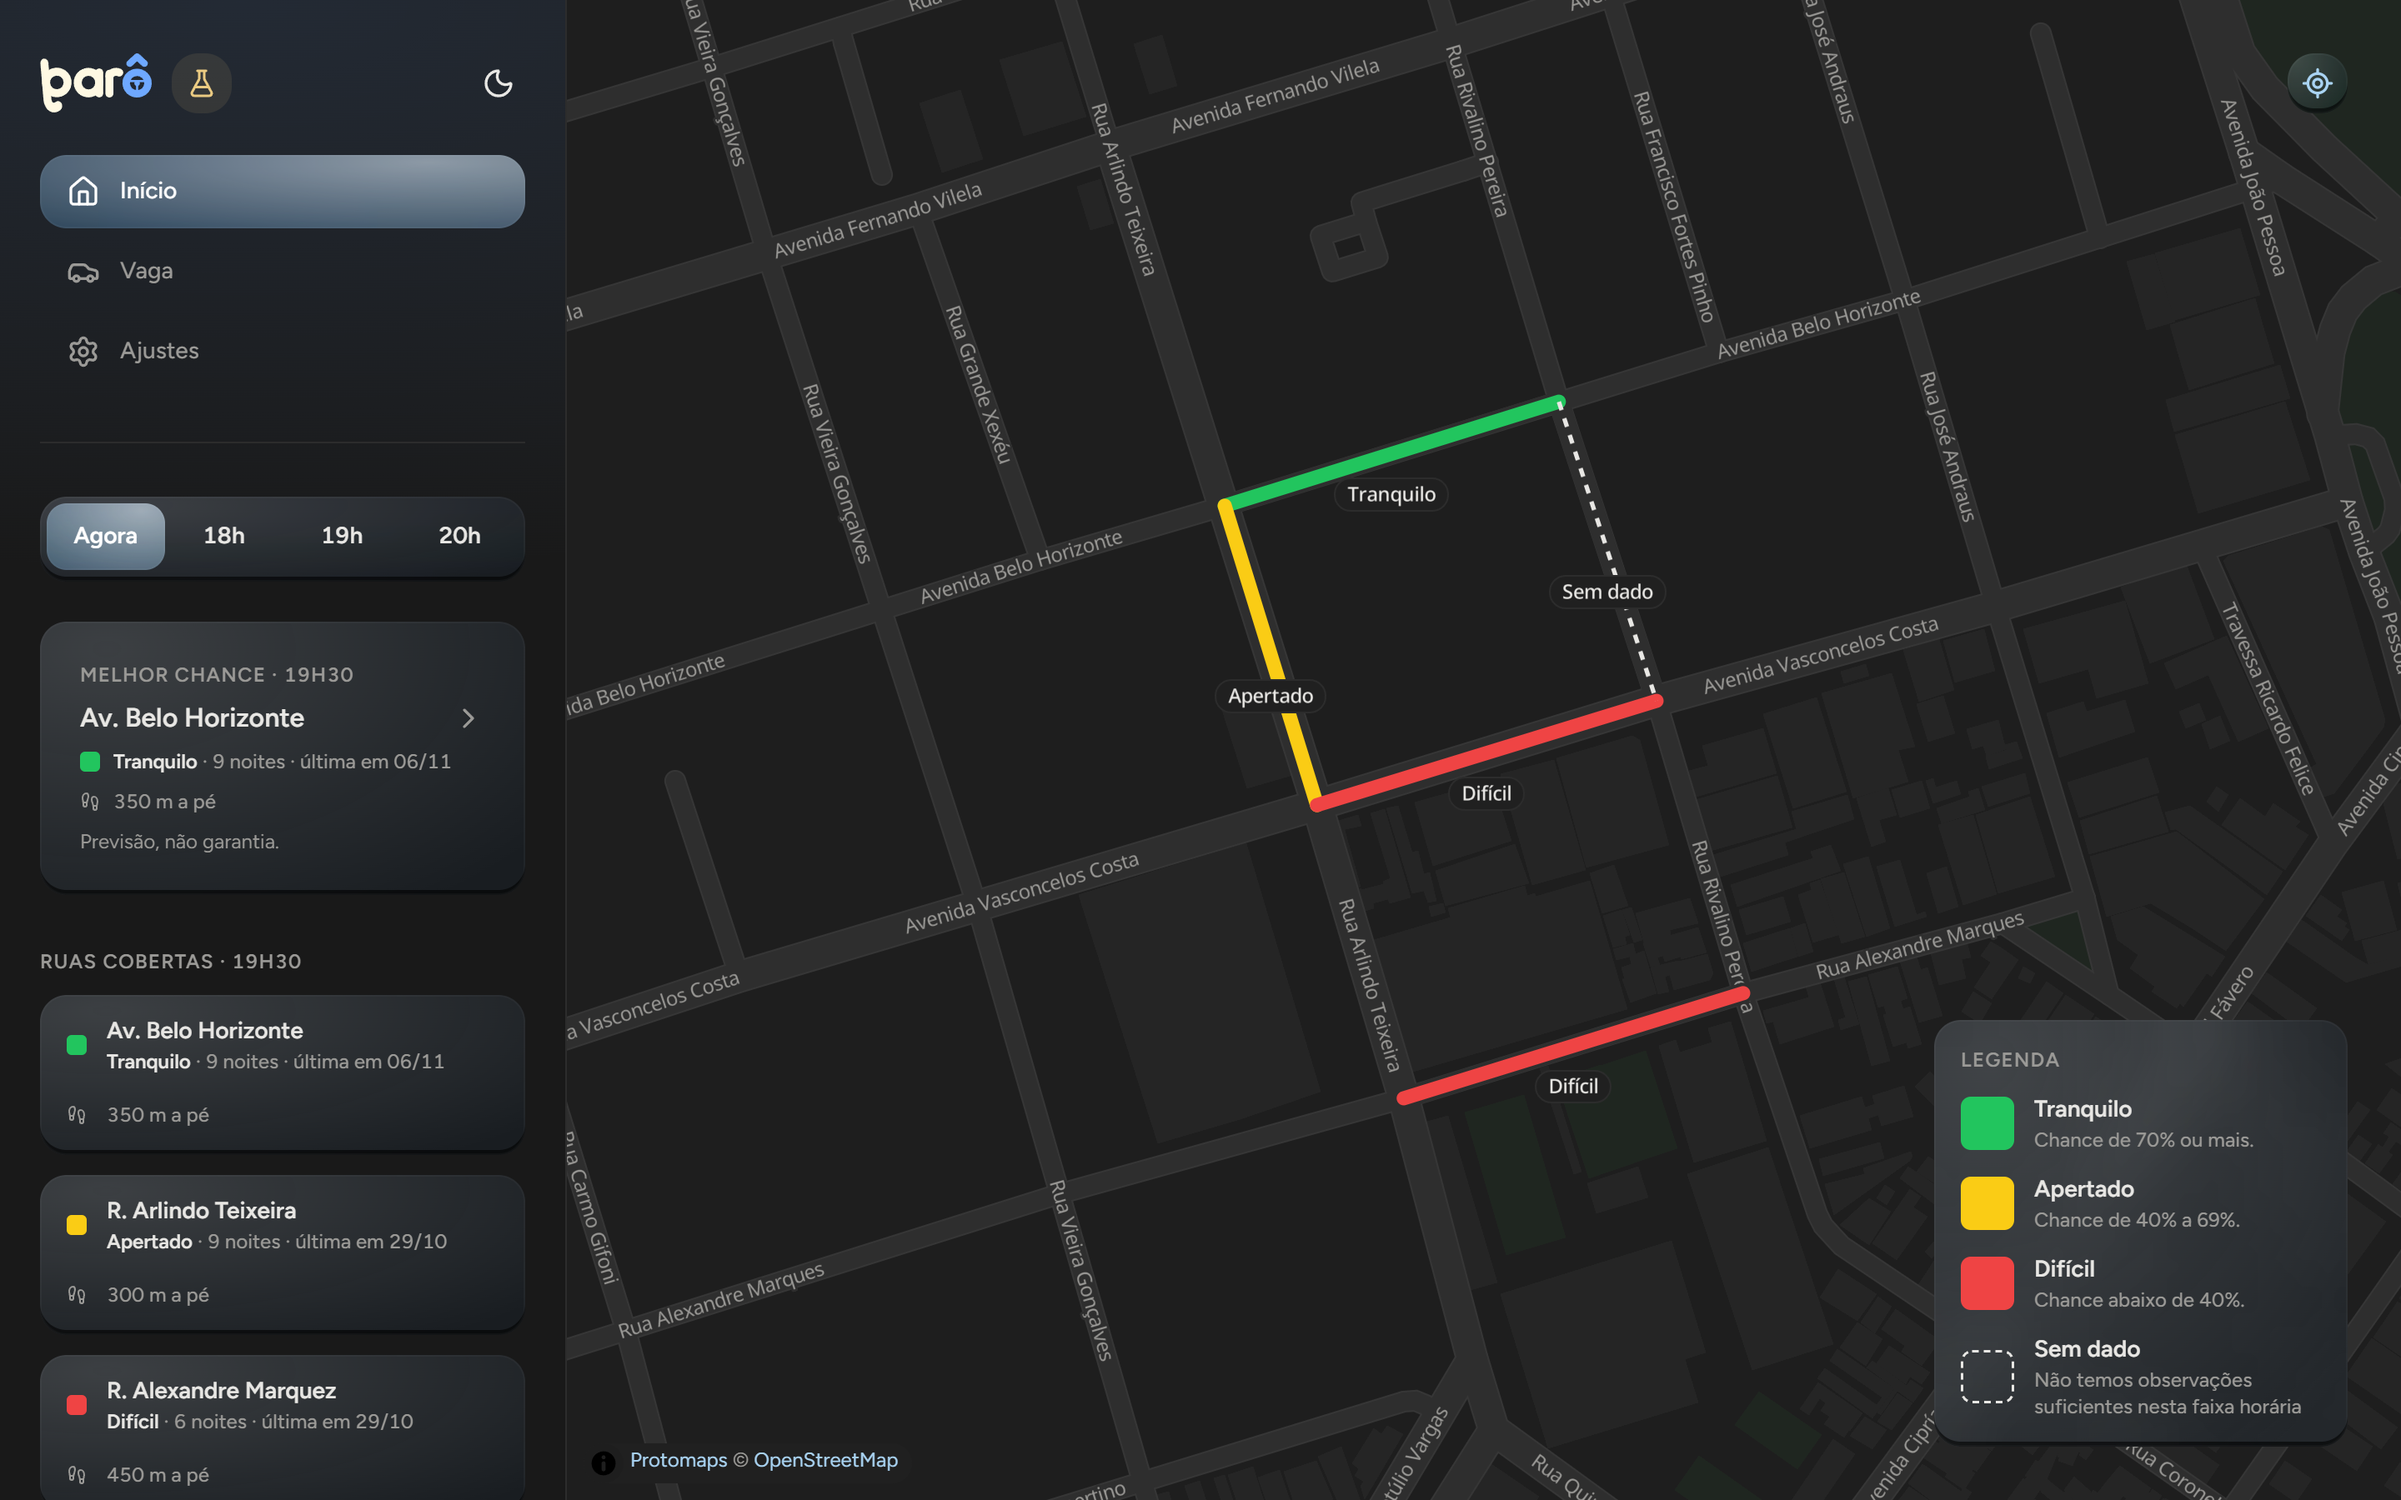
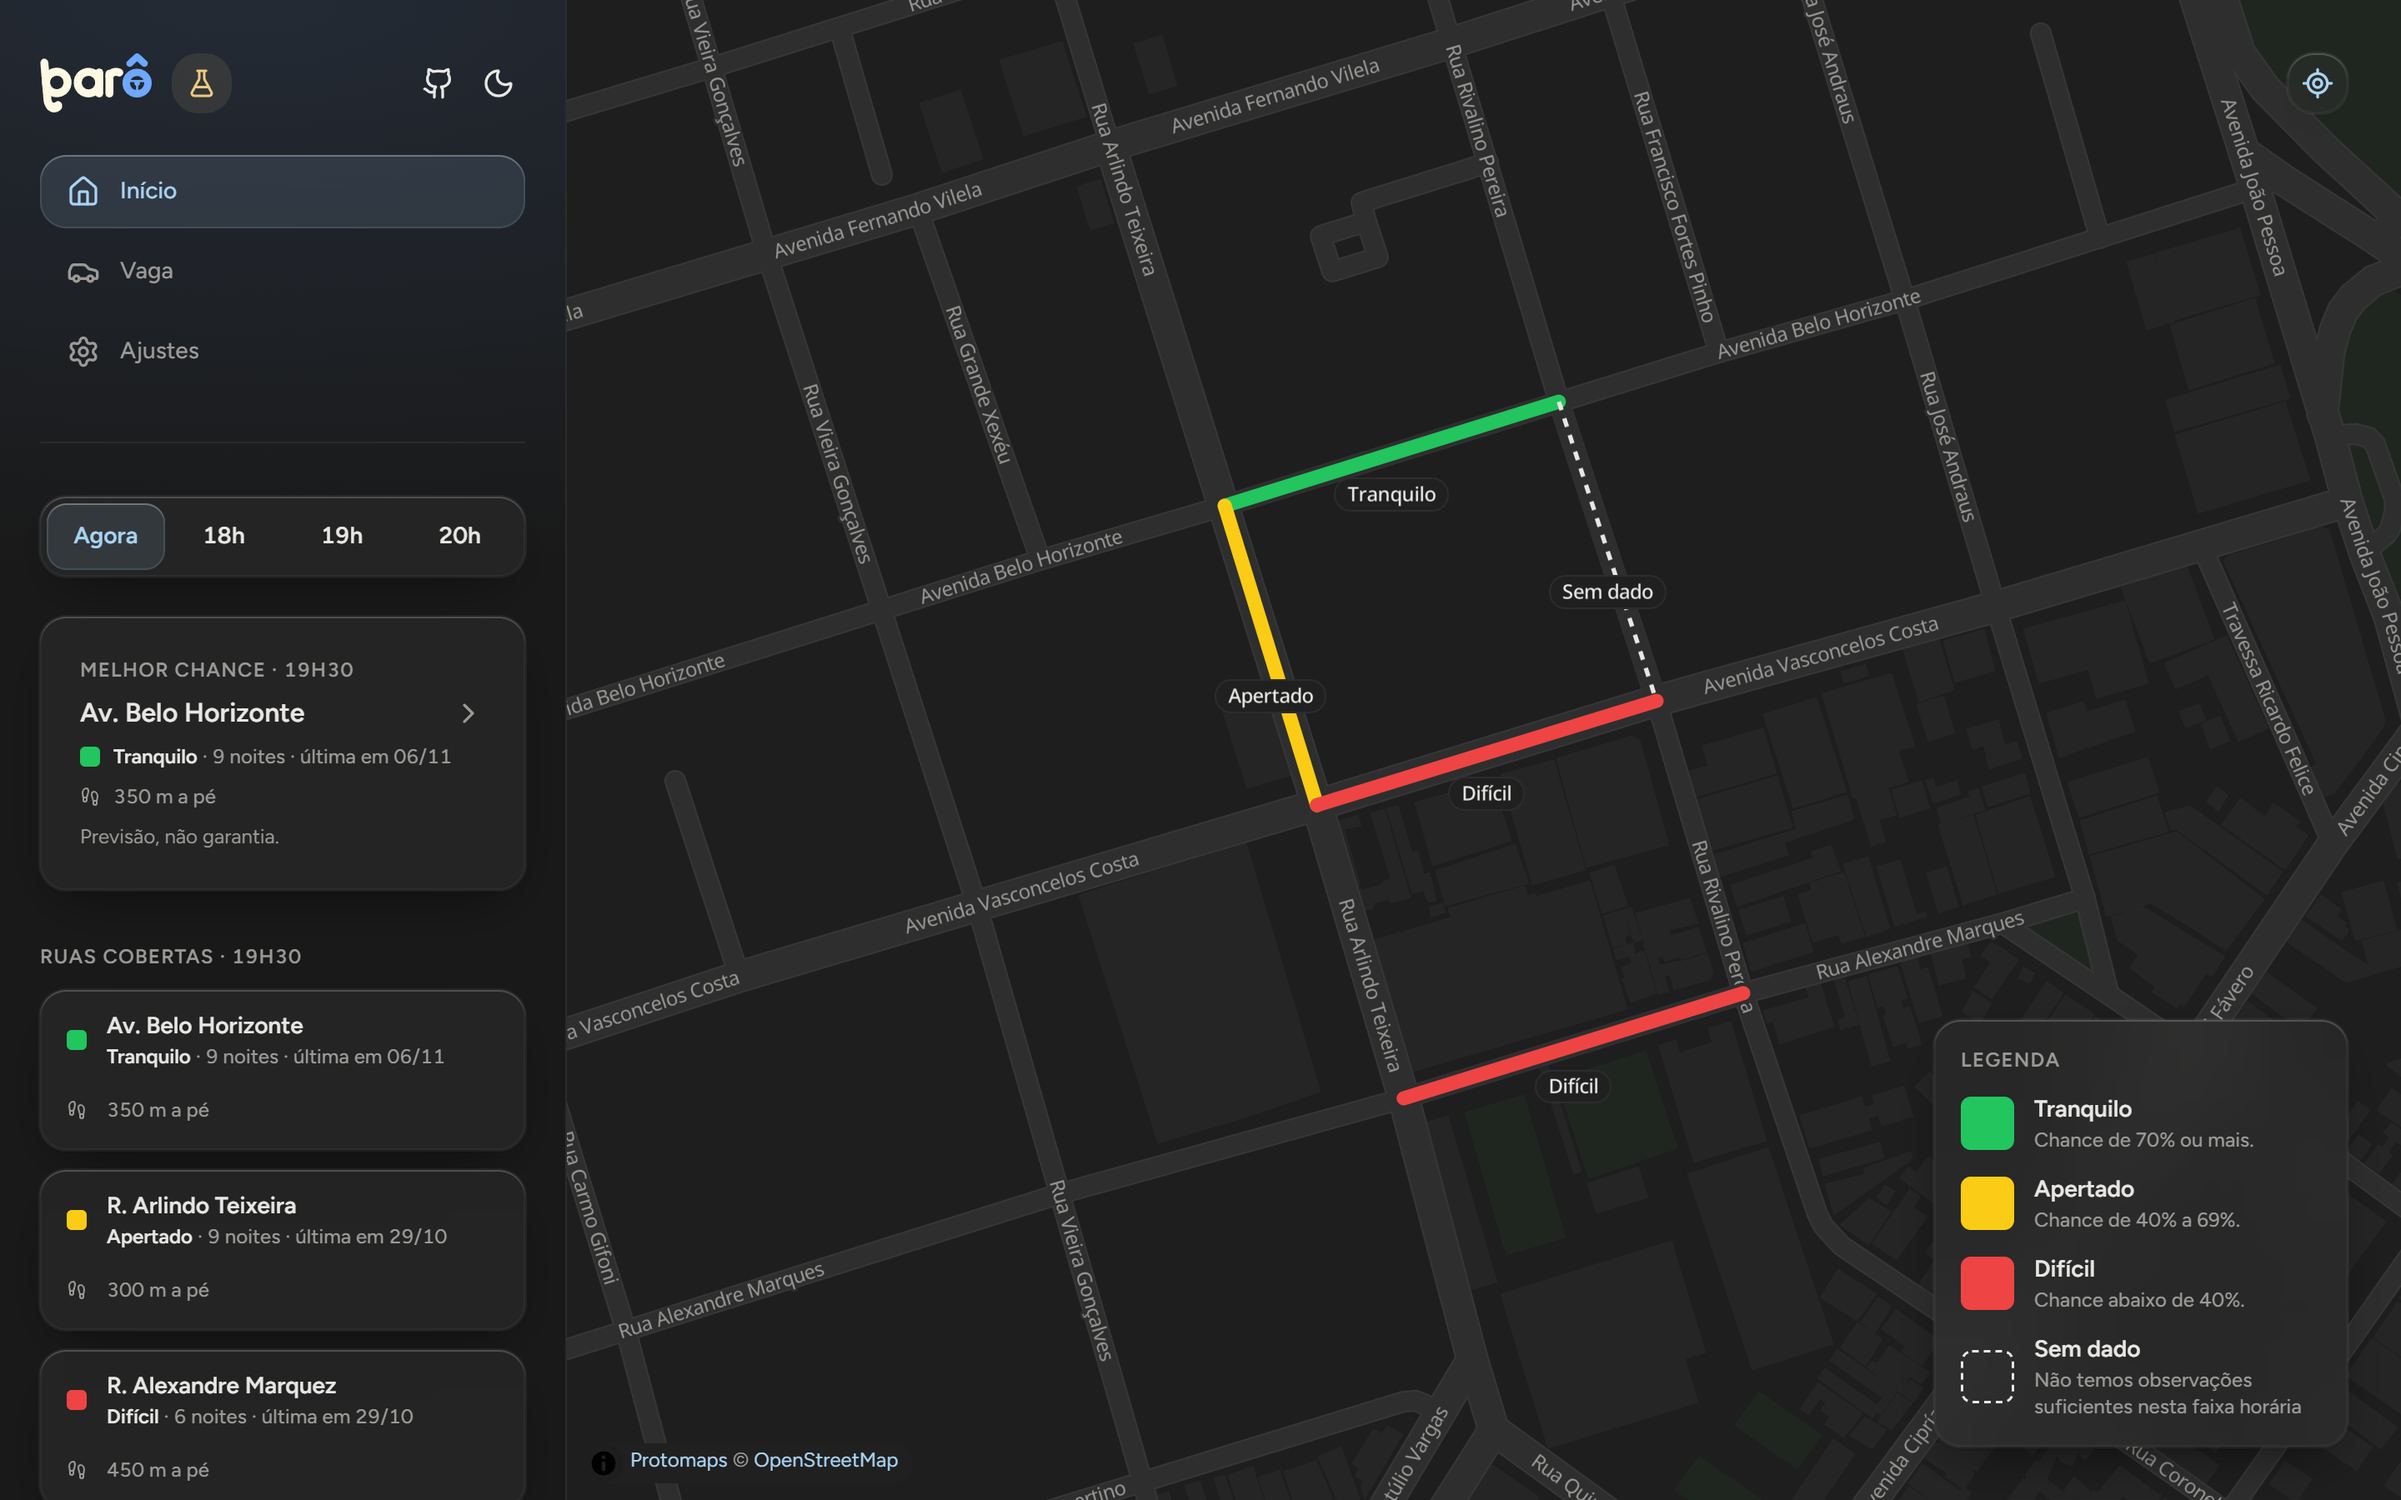
docs: refresh the README screenshots
- Retake the desktop Início with the GitHub link
- Retake the team metrics with the tabs and the top streets chart
- Update both alt texts

diff --git a/README.md b/README.md
@@ -4,7 +4,7 @@ O Parô mostra a chance de encontrar vaga de estacionamento por rua e horário n
 
 O app é um PWA instalável, sem cadastro e sem login. No desktop, as telas ficam numa barra lateral ao lado do mapa.
 
-<img src="docs/imagens/desktop-inicio.png" alt="Desktop: barra lateral com o Início e o mapa da área com a legenda">
+<img src="docs/imagens/desktop-inicio.png" alt="Desktop: barra lateral com o Início, o link do GitHub e o mapa da área com a legenda">
 
 ## Telas
 
@@ -20,7 +20,7 @@ O app é um PWA instalável, sem cadastro e sem login. No desktop, as telas fica
 
 A Área da equipe mostra as métricas de uso em gráficos ECharts.
 
-<img src="docs/imagens/desktop-metricas.png" alt="Métricas da equipe no desktop: aviso de demonstração, números do período, motoristas por semana, registros por noite e registros por dia e horário">
+<img src="docs/imagens/desktop-metricas.png" alt="Métricas da equipe no desktop: abas da Área da equipe, período, aviso de demonstração, números do período, motoristas por semana, registros por noite, registros por dia e horário e ruas com mais registros">
 
 ## Como a chance é calculada
 
